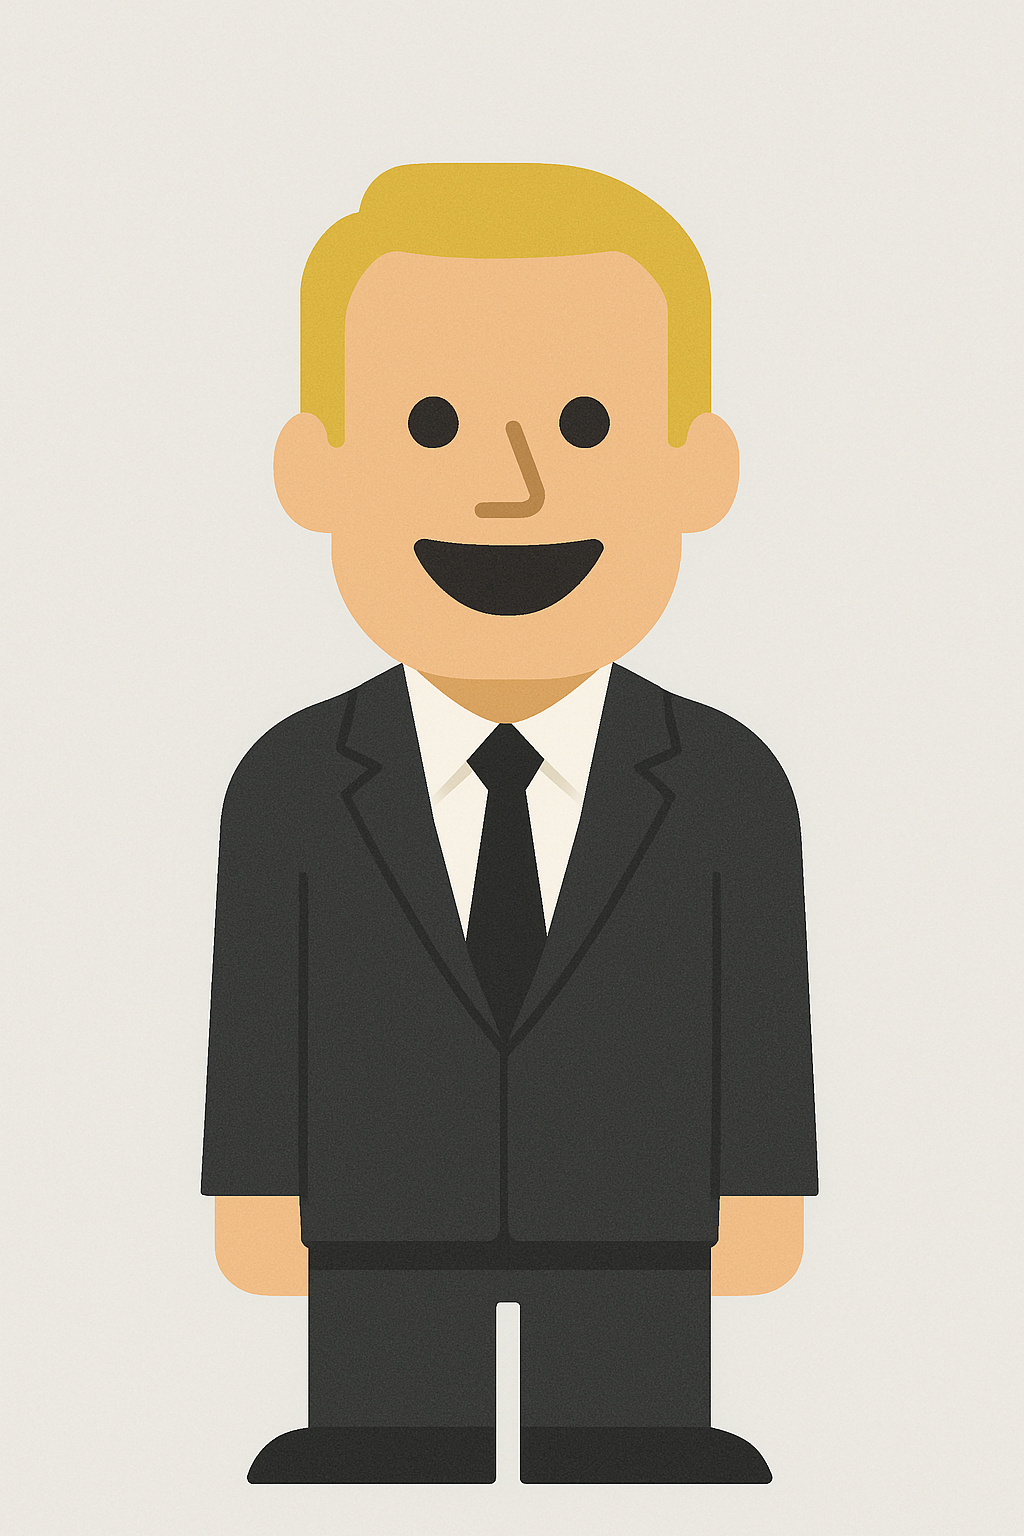
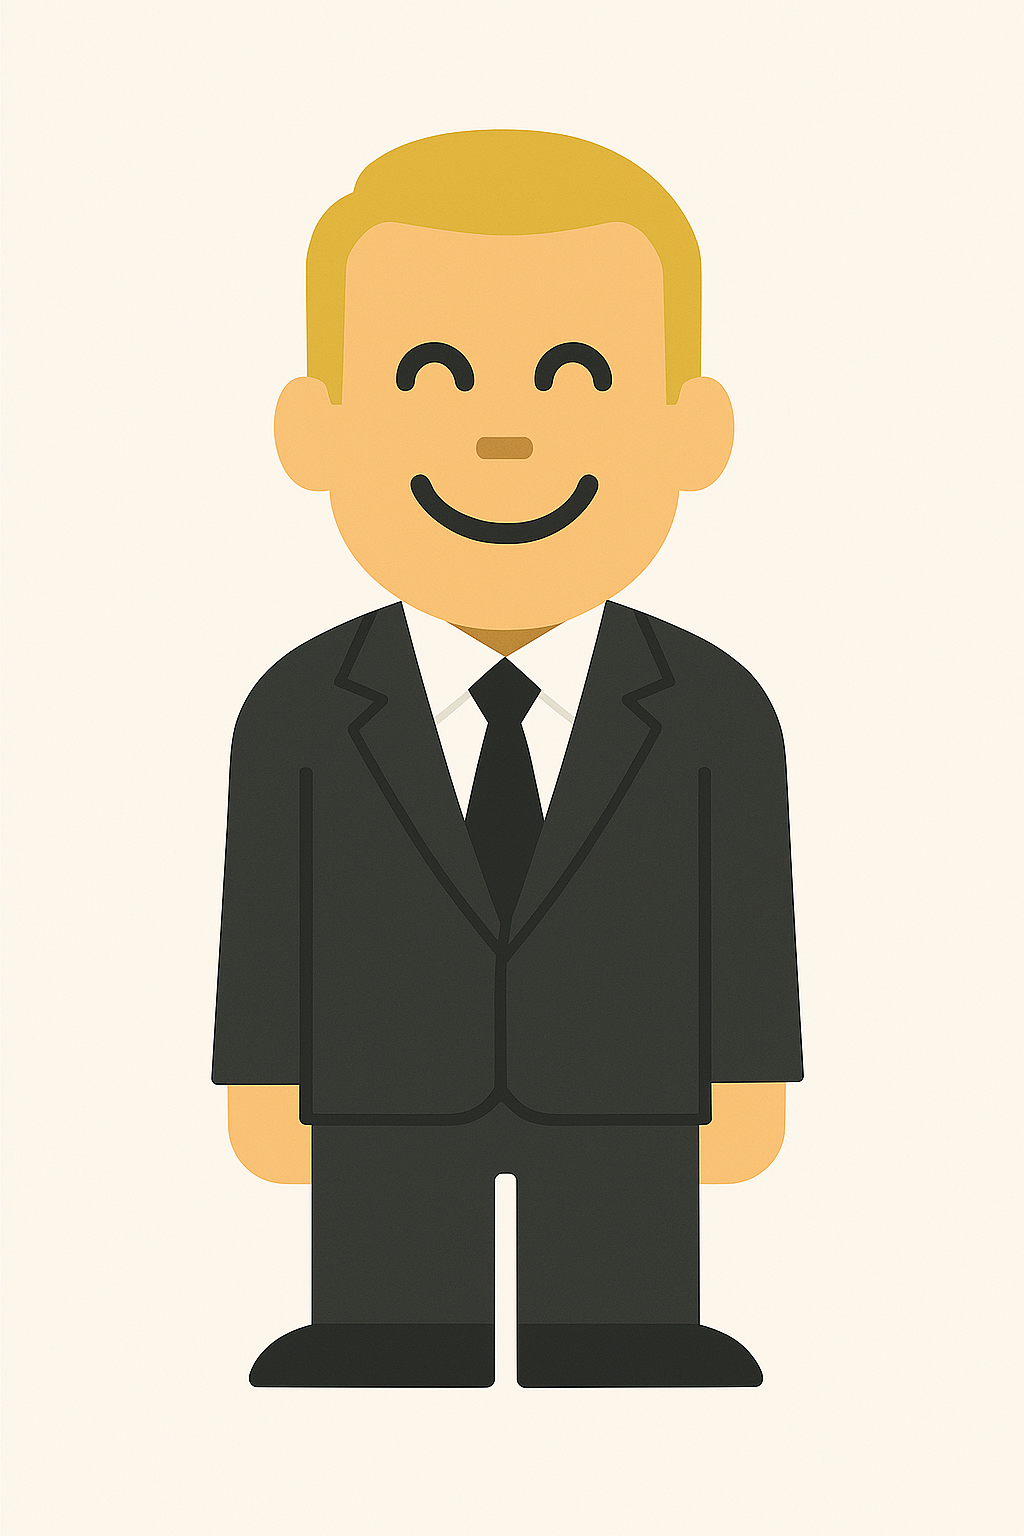
Added some animations and sound, added enter button event

Changed region(s): [[0.1875, 0.0625, 0.8125, 0.9688]]

diff --git a/script.js b/script.js
@@ -1,24 +1,50 @@
 const awesomeWords = ["legendary", "suit up", "awesome", "bro", "epic", "wait for it"];
 const lameWords = ["boring", "meh", "lame", "bad"];
 
-const inputBox = document.getElementById('inputBox');
-const barneyImg = document.getElementById('barney');
+const sunglasses = document.getElementById('sunglasses');
+const tear = document.getElementById('tear');
 const message = document.getElementById('message');
+const inputBox = document.getElementById('inputBox');
 const submitBtn = document.getElementById('submitBtn');
+const suitSound = document.getElementById('suitSound');
+const displayImage = document.getElementById("barneyImg");
+
+function resetVisuals() {
+  sunglasses.classList.remove('drop');
+  sunglasses.style.display = 'none';
+  tear.style.display = 'none';
+  message.classList.remove('typing');
+  document.body.style.backgroundColor = '#f0f0f0';
+}
 
 submitBtn.addEventListener('click', () => {
   const text = inputBox.value.toLowerCase();
-  let isAwesome = awesomeWords.some(word => text.includes(word));
-  let isLame = lameWords.some(word => text.includes(word));
+  const isAwesome = awesomeWords.some(word => text.includes(word));
+  const isLame = lameWords.some(word => text.includes(word));
+
+  resetVisuals();
+  message.classList.add('typing');
 
   if (isAwesome) {
-    barneyImg.src = 'barney-happy.png';
-    message.textContent = 'That was awesome. You may proceed, bro!';
+    displayImage.src = 'barney-happy.png';
+    sunglasses.style.display = 'block';
+    setTimeout(() => {
+      sunglasses.classList.add('drop');
+    }, 50);
+    suitSound.play();
+    message.textContent = "That was awesome. You may proceed, bro!";
+    document.body.style.backgroundColor = "#d4edda";
   } else if (isLame) {
-    barneyImg.src = 'barney-sad.png';
-    message.textContent = 'Barney is not impressed. Try again!';
+    displayImage.src = 'barney-sad.png'
+    tear.style.display = 'block';
+    message.textContent = "Barney is not impressed. Try again!";
+    document.body.style.backgroundColor = "#f8d7da";
   } else {
-    barneyImg.src = 'barney-neutral.png';
-    message.textContent = '';
+    displayImage.src = 'barney-neutral.png'
+    message.textContent = "";
   }
 });
+
+inputBox.addEventListener("keypress", (e) =>{
+  if(e.key == "Enter") submitBtn.click();
+})

diff --git a/style.css b/style.css
@@ -1,4 +1,3 @@
-
 body {
   font-family: Arial, sans-serif;
   display: flex;
@@ -7,22 +6,52 @@ body {
   justify-content: center;
   height: 100vh;
   background: #f0f0f0;
+  overflow: hidden;
+  transition: background-color 0.5s ease;
 }
 
-.images {
-  display: flex;
-  align-items: center;
-  gap: 40px;
+.image-container {
+  position: relative;
+  width: 250px;
+  height: 400px;
   margin-bottom: 20px;
 }
 
 .barney-img {
-  width: 200px;
+  width: 100%;
   height: auto;
-  background: #fff;
-  padding: 10px;
   border-radius: 10px;
   box-shadow: 0 4px 10px rgba(0, 0, 0, 0.15);
+}
+
+.sunglasses, .tear {
+  position: absolute;
+  pointer-events: none;
+  display: none;
+}
+
+.sunglasses {
+  width: 95px;
+  top: 40px;
+  left: 75px;
+  transition: top 0.8s ease-in;
+}
+
+.sunglasses.drop {
+  display: block;
+  top: 70px;
+}
+
+.tear {
+  width: 10px;
+  left: 145px;
+  top: 90px;
+  animation: dropTear 1s linear infinite;
+}
+
+@keyframes dropTear {
+  0% { top: 100px; opacity: 1; }
+  100% { top: 200px; opacity: 0; }
 }
 
 input[type="text"] {
@@ -51,4 +80,5 @@ button:hover {
   font-size: 1.2em;
   font-weight: bold;
   text-align: center;
+  min-height: 1.4em;
 }

diff --git a/index.html b/index.html
@@ -1,18 +1,22 @@
 <!DOCTYPE html>
 <html lang="en">
 <head>
-  <meta charset="UTF-8">
-  <meta name="viewport" content="width=device-width, initial-scale=1.0">
+  <meta charset="UTF-8" />
+  <meta name="viewport" content="width=device-width, initial-scale=1.0"/>
   <title>Suit Up Challenge</title>
   <link rel="stylesheet" href="style.css">
 </head>
 <body>
-  <div class="images">
-    <img id="barney" class="barney-img" src="barney-neutral.png" alt="Barney Neutral">
+
+  <div class="image-container">
+    <img src="barney-neutral.png" alt="Barney Neutral" class="barney-img" id="barneyImg">
+    <img src="sunglass.png" alt="Sunglasses" class="sunglasses" id="sunglasses">
+    <img src="tear.png" alt="Tear Drop" class="tear" id="tear">
   </div>
-  <input type="text" id="inputBox" placeholder="Say something awesome to make Barney suit up...">
+  <input type="text" id="inputBox" placeholder="Say something awesome to Barney ...">
   <button id="submitBtn">Suit Me Up!</button>
-  <div class="message" id="message"></div>
+  <div class="message typing" id="message"></div>
+  <audio id="suitSound" src="suit-up.mp3"></audio>
   <script src="script.js"></script>
 </body>
 </html>
